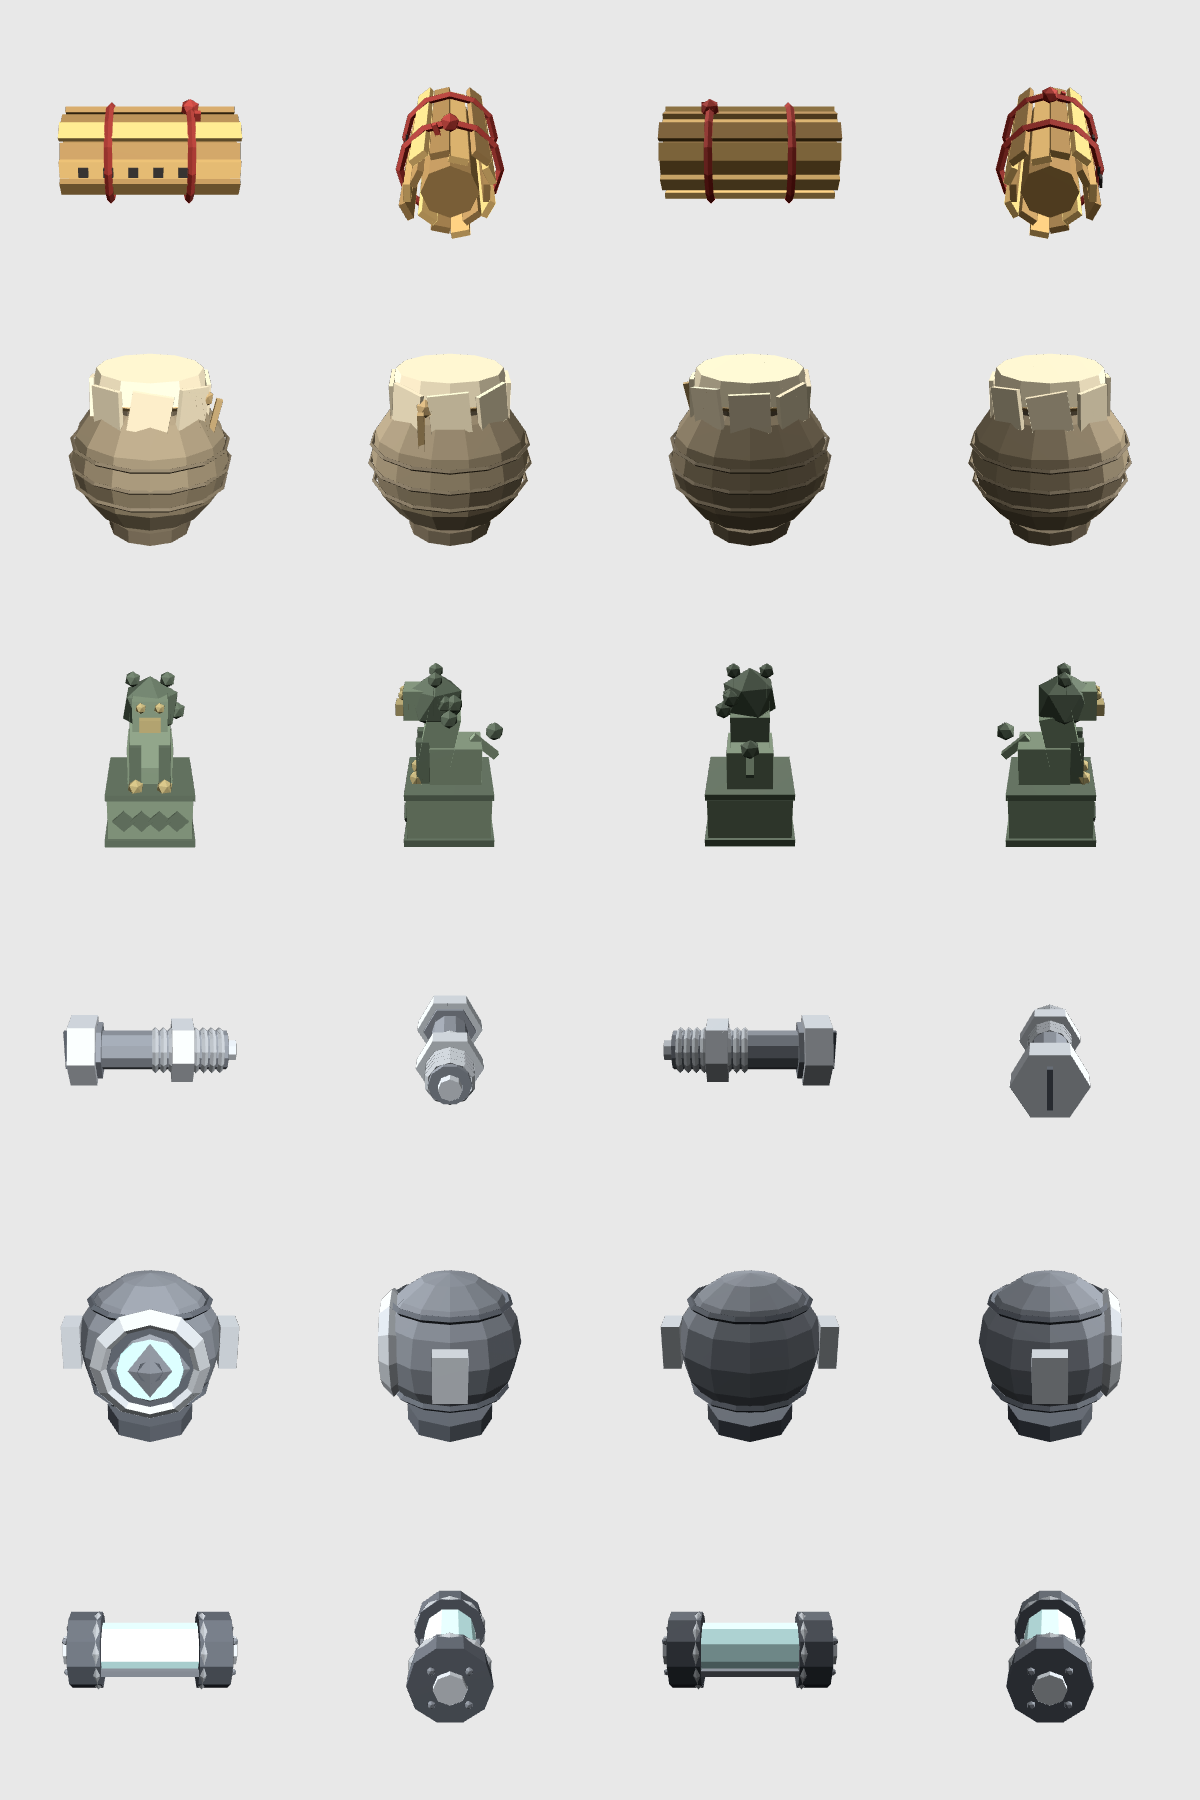
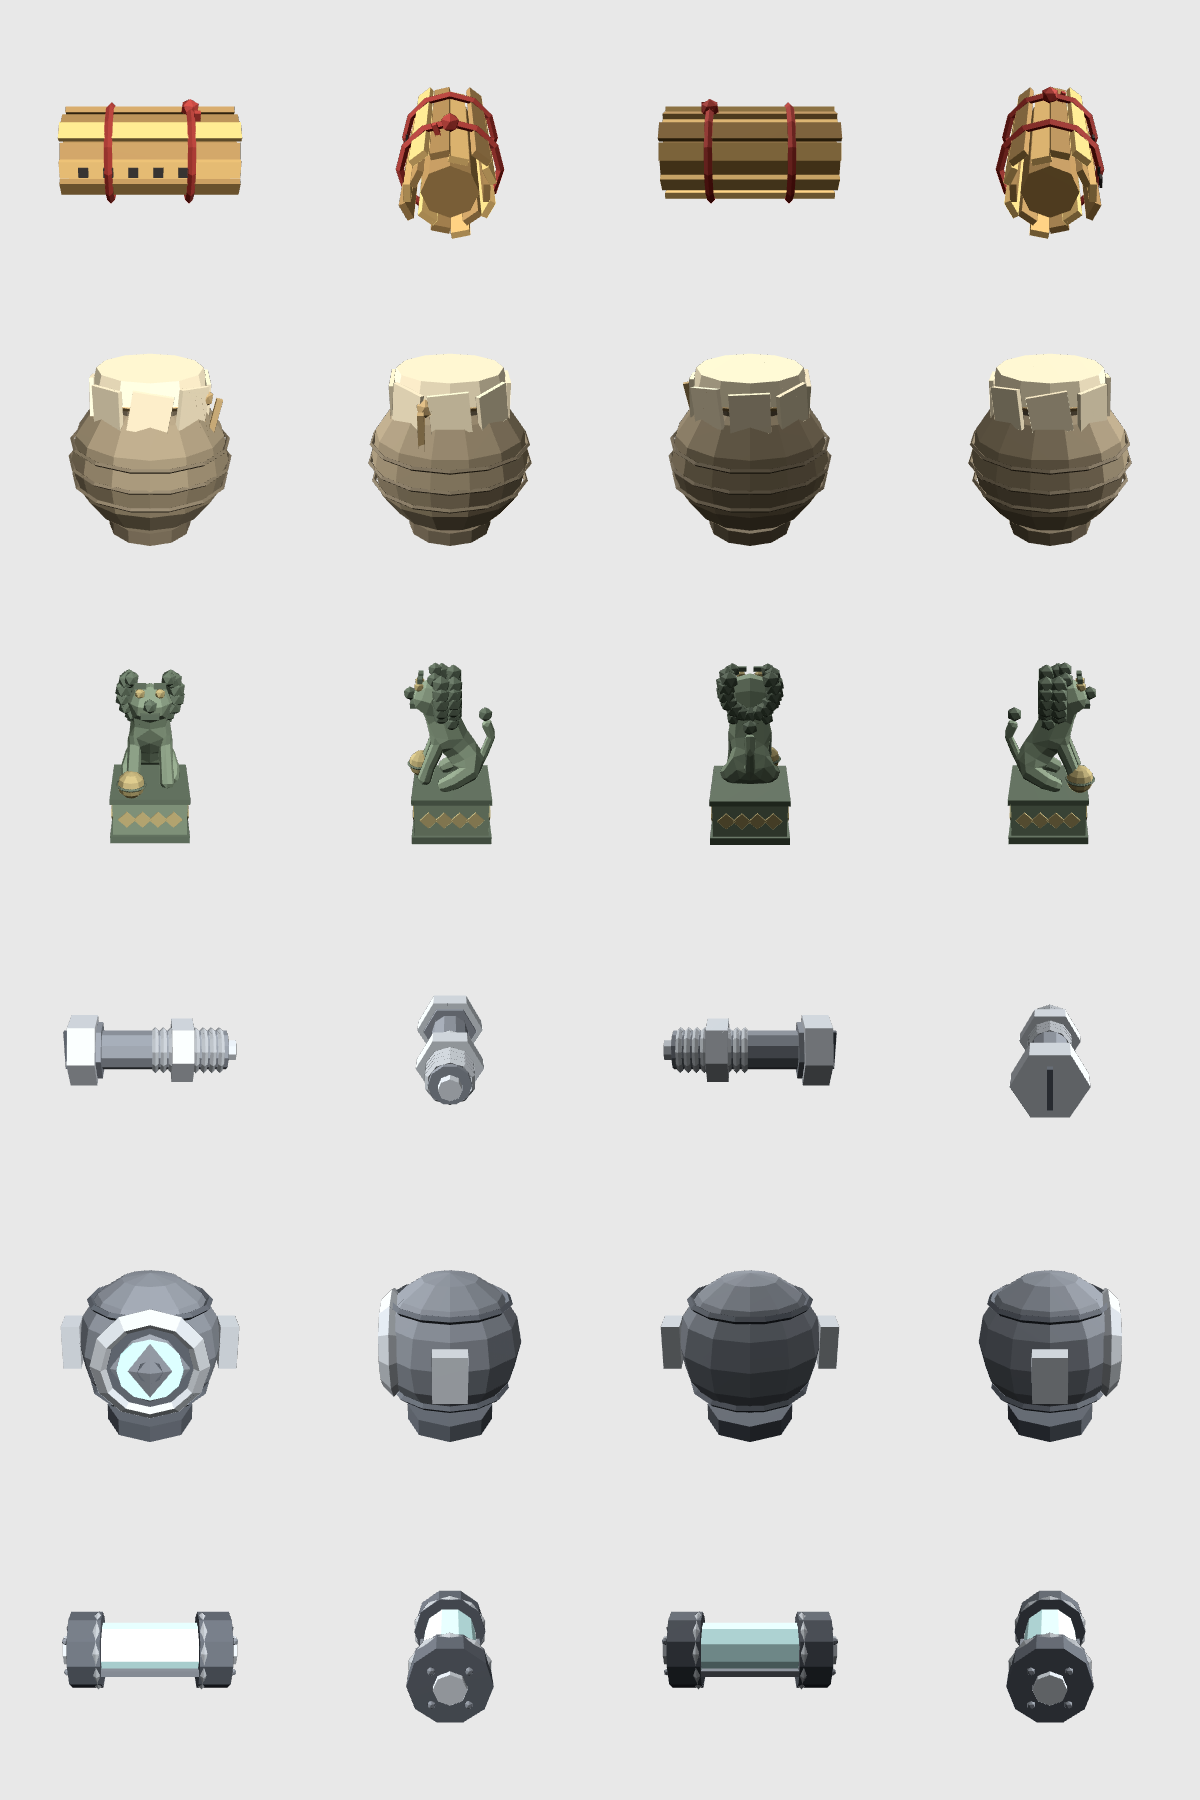
art: rebuild the guardian lion on the bronze seal (CP3) with a skinned skeleton
The lion is now a stick skeleton wrapped by Blender's Skin modifier and
decimated into facets, with a big head, curly mane, face and an
embroidered ball under the paw, instead of stacked boxes.

Claude-Session: https://claude.ai/code/session_01QKQCdZrLAmYuhynD5rorbZ

diff --git a/Tools/Blender/make_artifacts_lowpoly.py b/Tools/Blender/make_artifacts_lowpoly.py
@@ -123,30 +123,88 @@ def build_cp2():   # Hũ đựng đồ: round glazed storage jar with a cloth-wr
     return "CP2", parts, glow
 
 
-def build_cp3():   # Ấn triện đồng: bronze seal stamp with a guardian lion on a square base
+def skin_creature(verts, edges, radii, material, decimate=0.45):
+    """Organic low-poly shape: a stick skeleton wrapped by the Skin modifier, smoothed once, then decimated into facets."""
+    mesh = bpy.data.meshes.new("skel")
+    mesh.from_pydata(verts, edges, [])
+    obj = bpy.data.objects.new("skel", mesh)
+    bpy.context.scene.collection.objects.link(obj)
+    bpy.context.view_layer.objects.active = obj
+    obj.select_set(True)
+    skin = obj.modifiers.new("skin", "SKIN")
+    for i, r in enumerate(radii):
+        mesh.skin_vertices[0].data[i].radius = r
+    mesh.skin_vertices[0].data[0].use_root = True
+    obj.modifiers.new("sub", "SUBSURF").levels = 1
+    dec = obj.modifiers.new("dec", "DECIMATE")
+    dec.ratio = decimate
+    for m in list(obj.modifiers):
+        bpy.ops.object.modifier_apply(modifier=m.name)
+    return finish(obj, material)
+
+
+def build_cp3():   # Ấn triện đồng: bronze seal stamp topped by a seated guardian lion (like the stone lions at temple gates)
     parts, glow = [], []
-    parts.append(box((0.13, 0.13, 0.08), (0, 0, 0.04), "bronze"))                                     # base
-    parts.append(box((0.14, 0.14, 0.012), (0, 0, 0.006), "bronze_dk"))                                # stamp face
-    parts.append(box((0.135, 0.135, 0.01), (0, 0, 0.085), "bronze_dk"))                               # top rim
-    # blocky guardian lion, sitting, facing -Y
-    parts.append(box((0.07, 0.08, 0.06), (0, 0.01, 0.12), "bronze"))                                  # haunches
-    parts.append(box((0.06, 0.05, 0.08), (0, -0.015, 0.16), "bronze", rot=(math.radians(-12), 0, 0)))  # chest
+    # base: stepped plinth with a carved band
+    parts.append(box((0.14, 0.14, 0.014), (0, 0, 0.007), "bronze_dk"))                                # stamp face
+    parts.append(box((0.13, 0.13, 0.064), (0, 0, 0.046), "bronze"))
+    parts.append(box((0.138, 0.138, 0.01), (0, 0, 0.082), "bronze_dk"))                               # top rim
+    for sy in (-1, 1):
+        for i in range(4):
+            parts.append(box((0.022, 0.004, 0.022), (-0.04 + i * 0.027, sy * 0.066, 0.046), "bronze_hi", rot=(0, math.radians(45), 0)))
     for sx in (-1, 1):
-        parts.append(box((0.018, 0.02, 0.07), (sx * 0.022, -0.04, 0.125), "bronze_dk"))               # front legs
-        parts.append(ico(0.013, (sx * 0.022, -0.05, 0.095), "bronze_hi"))                              # paws
-    parts.append(ico(0.045, (0, -0.02, 0.215), "bronze_dk", sub=1))                                    # mane
-    parts.append(box((0.05, 0.045, 0.045), (0, -0.045, 0.215), "bronze"))                             # face
-    parts.append(box((0.03, 0.02, 0.018), (0, -0.07, 0.205), "bronze_hi"))                            # muzzle
+        for i in range(4):
+            parts.append(box((0.004, 0.022, 0.022), (sx * 0.066, -0.04 + i * 0.027, 0.046), "bronze_hi", rot=(math.radians(45), 0, 0)))
+    z0 = 0.087                                                                                         # lion sits on top of the rim, facing -Y
+    V = [
+        (0, 0.03, z0 + 0.045),      # 0 hip (root)
+        (0, -0.005, z0 + 0.095),    # 1 chest
+        (0, -0.02, z0 + 0.135),     # 2 neck
+        (0, -0.03, z0 + 0.17),      # 3 head
+        (0, -0.07, z0 + 0.163),     # 4 muzzle
+        (0.026, -0.022, z0 + 0.085),   # 5 shoulder L
+        (0.028, -0.04, z0 + 0.045),    # 6 elbow L
+        (0.03, -0.05, z0 + 0.01),      # 7 paw L
+        (-0.026, -0.022, z0 + 0.085),  # 8 shoulder R
+        (-0.028, -0.04, z0 + 0.045),   # 9 elbow R
+        (-0.03, -0.05, z0 + 0.01),     # 10 paw R
+        (0.032, 0.03, z0 + 0.035),     # 11 haunch L
+        (0.042, 0.0, z0 + 0.018),      # 12 knee L
+        (0.036, -0.025, z0 + 0.008),   # 13 hind foot L
+        (-0.032, 0.03, z0 + 0.035),    # 14 haunch R
+        (-0.042, 0.0, z0 + 0.018),     # 15 knee R
+        (-0.036, -0.025, z0 + 0.008),  # 16 hind foot R
+        (0, 0.055, z0 + 0.05),         # 17 tail base
+        (0, 0.07, z0 + 0.09),          # 18 tail mid
+        (0, 0.058, z0 + 0.12),         # 19 tail tip (curled up)
+    ]
+    E = [(0, 1), (1, 2), (2, 3), (3, 4), (1, 5), (5, 6), (6, 7), (1, 8), (8, 9), (9, 10),
+         (0, 11), (11, 12), (12, 13), (0, 14), (14, 15), (15, 16), (0, 17), (17, 18), (18, 19)]
+    Rr = [(0.036, 0.034), (0.032, 0.03), (0.03, 0.028), (0.046, 0.044), (0.026, 0.022),
+          (0.014, 0.014), (0.012, 0.012), (0.014, 0.016), (0.014, 0.014), (0.012, 0.012), (0.014, 0.016),
+          (0.02, 0.02), (0.016, 0.016), (0.014, 0.016), (0.02, 0.02), (0.016, 0.016), (0.014, 0.016),
+          (0.009, 0.009), (0.008, 0.008), (0.012, 0.012)]
+    parts.append(skin_creature(V, E, Rr, "bronze"))
+    # curly mane: two rings of curls hugging the back and sides of the big head, plus a row down the neck
+    hc = (0.0, -0.025, z0 + 0.172)
+    for ring_y, rad in ((-0.012, 0.044), (0.008, 0.04)):
+        for i in range(13):
+            a = math.radians(-210 + i * 20)
+            parts.append(ico(0.016, (hc[0] + math.cos(a) * rad, hc[1] + ring_y + 0.02, hc[2] + math.sin(a) * rad), "bronze_dk"))
+    for i in range(4):
+        parts.append(ico(0.014, ((i - 1.5) * 0.018, 0.0, z0 + 0.125), "bronze_dk"))
+    parts.append(ico(0.013, (0, 0.058, z0 + 0.13), "bronze_dk"))                                       # tail tuft
+    # face: brows, eyes, nose, open mouth, ears
     for sx in (-1, 1):
-        parts.append(ico(0.008, (sx * 0.013, -0.068, 0.228), "bronze_hi"))                            # eyes
-        parts.append(ico(0.012, (sx * 0.025, -0.02, 0.255), "bronze_dk"))                             # ears / curls
-    for i in range(4):                       # curly mane bumps
-        a = i / 4 * math.pi - R90
-        parts.append(ico(0.014, (math.cos(a) * 0.04, 0.0 + math.sin(a) * 0.01, 0.2 + 0.02 * (i % 2)), "bronze_dk"))
-    parts.append(box((0.012, 0.05, 0.012), (0, 0.055, 0.14), "bronze", rot=(math.radians(-40), 0, 0)))  # tail
-    parts.append(ico(0.015, (0, 0.07, 0.165), "bronze_dk"))
-    for i in range(4):                       # engraved pattern on the base sides
-        parts.append(box((0.025, 0.004, 0.025), (-0.04 + i * 0.027, -0.067, 0.045), "bronze_dk", rot=(0, math.radians(45), 0)))
+        parts.append(ico(0.009, (sx * 0.016, -0.054, z0 + 0.184), "bronze_hi"))                        # eyes
+        parts.append(box((0.02, 0.008, 0.008), (sx * 0.016, -0.052, z0 + 0.196), "bronze_dk"))         # brows
+        parts.append(ico(0.013, (sx * 0.03, -0.028, z0 + 0.2), "bronze_dk"))                         # ears
+    parts.append(ico(0.012, (0, -0.07, z0 + 0.168), "bronze_dk"))                                     # nose
+    parts.append(box((0.03, 0.016, 0.009), (0, -0.062, z0 + 0.15), "bronze_dk"))                      # open mouth
+    # embroidered ball under the right front paw
+    parts.append(uvs(0.024, (-0.032, -0.055, z0 + 0.022), "bronze_hi", seg=10, rings=6))
+    for a in (0, 60, 120):
+        parts.append(torus(0.024, 0.0025, (-0.032, -0.055, z0 + 0.022), "bronze_dk", rot=(0, 0, math.radians(a)), seg=10))
     return "CP3", parts, glow
 
 
